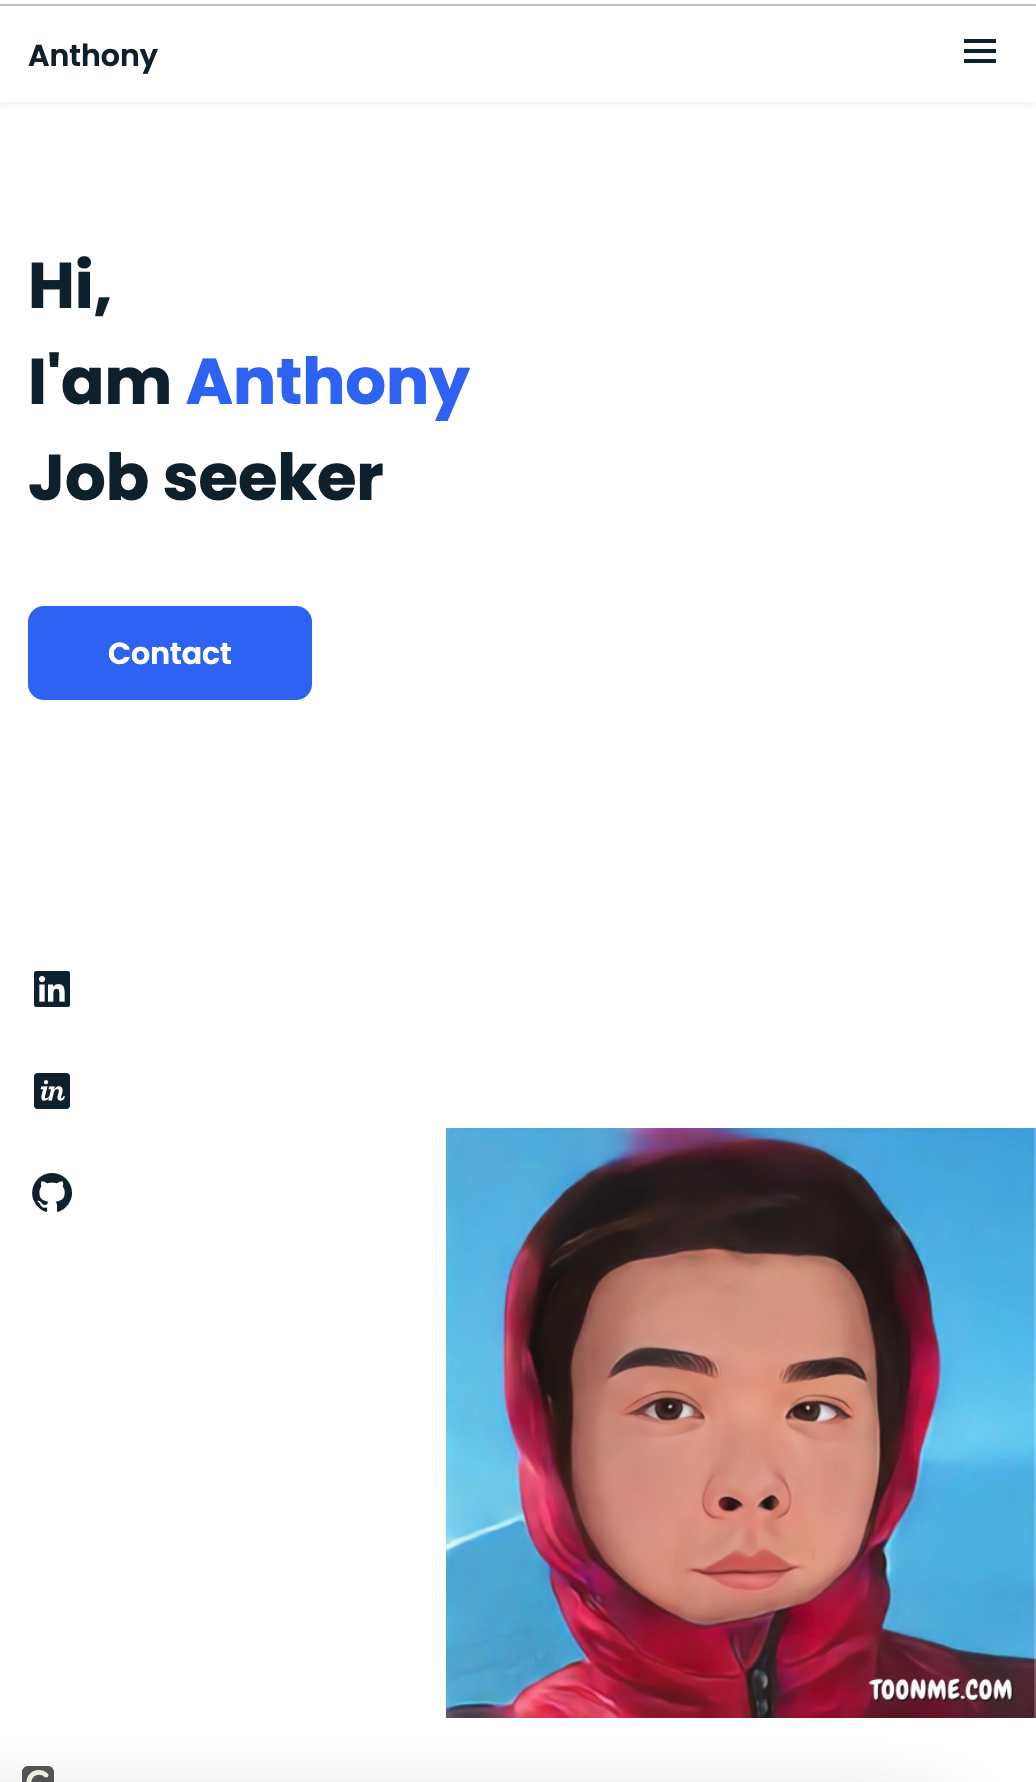
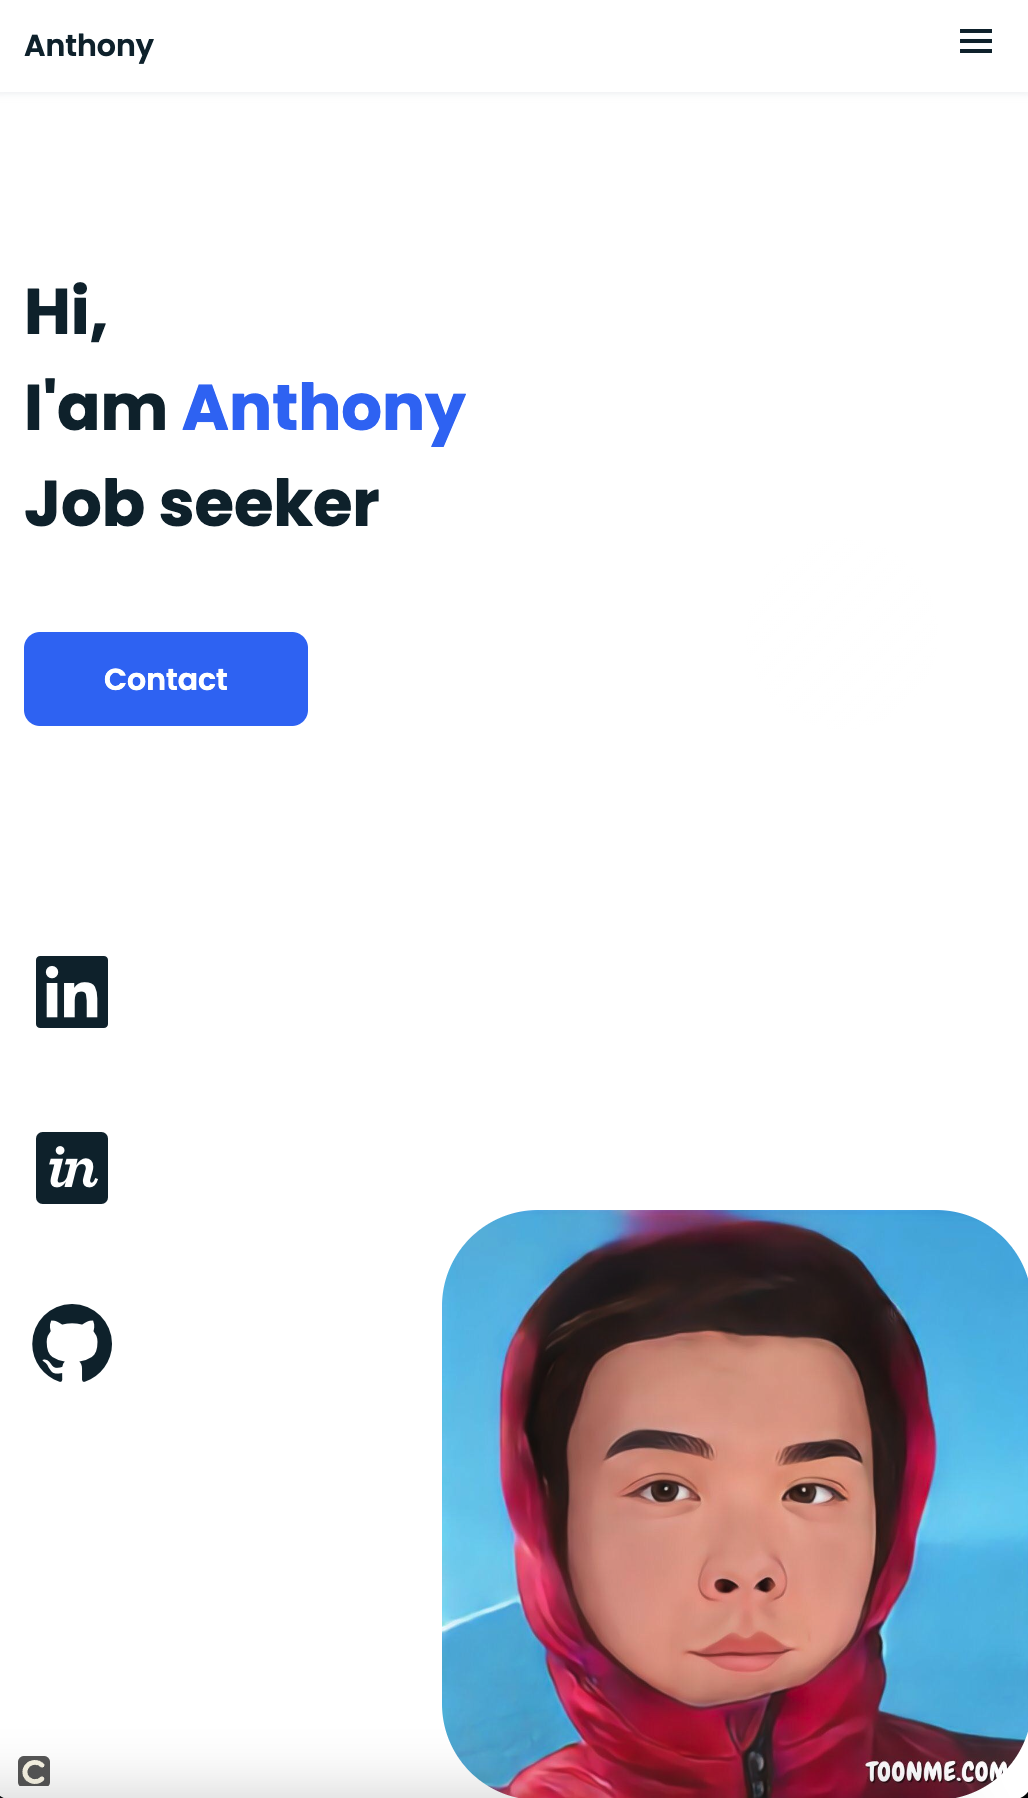
Modify the picture border-radis Modify the two screenShots

diff --git a/index.html b/index.html
@@ -46,14 +46,17 @@
                 </div>
 
                 <div class="home__social">
-                    <a href="https:www.linkedin.com/in/anthony-kong-83a2751a0" class="home__social-icon"><i class='bx bxl-linkedin-square'></i></a>
-                    <a href="" class="home__social-icon"><i class='bx bxl-invision' ></i></a>
-                    <a href="" class="home__social-icon"><i class='bx bxl-github' ></i></a>
+                    <a href="https:www.linkedin.com/in/anthony-kong-83a2751a0" target="view_window" class="home__social-icon"><i class='bx bxl-linkedin-square'></i></a>
+                    <a href="https://my.indeed.com/p/anthonyk-u98hl4m" target="view_window" class="home__social-icon"><i class='bx bxl-invision' ></i></a>
+                    <a href="https://www.github.com/KdnGitHub" target="view_window" class="home__social-icon"><i class='bx bxl-github' ></i></a>
                 </div>
 
-                <div class="home__img">    
-                    <img src="assets/img/perfil.jpeg" alt="">
+                <div class="home__img" >
+
+                    <img src="assets/img/perfil.jpeg" alt="" style="border-radius: 3rem; z-index: 2; backdrop-filter: blur(2rem); display: flex">
                 </div>
+                <div class="circle1"></div>
+                <!-- <div class="circle2"></div> -->
             </section>
 
             <!--===== ABOUT =====-->
@@ -62,7 +65,7 @@
 
                 <div class="about__container bd-grid">
                     <div class="about__img">
-                        <img src="assets/img/about.jpeg" alt="">
+                        <img src="assets/img/about.jpeg" alt="" style="border-radius: 50%">
                     </div>
                     
                     <div>
@@ -106,7 +109,7 @@
                                 
                             </div>
                             <div>
-                                <span class="skills__percentage">70%</span>
+                                <span class="skills__percentage">75%</span>
                             </div>
                         </div>
                         <div class="skills__data">
@@ -118,7 +121,7 @@
                                 
                             </div>
                             <div>
-                                <span class="skills__percentage">50%</span>
+                                <span class="skills__percentage">60%</span>
                             </div>
                         </div>
                         <div class="skills__data">
@@ -130,7 +133,7 @@
                                 
                             </div>
                             <div>
-                                <span class="skills__percentage">65%</span>
+                                <span class="skills__percentage">70%</span>
                             </div>
                         </div>
                         <div class="skills__data">
@@ -142,13 +145,13 @@
 
                             </div>
                             <div>
-                                <span class="skills__percentage">55%</span>
+                                <span class="skills__percentage">65%</span>
                             </div>
                         </div>
                     </div>
                     
                     <div>              
-                        <img src="assets/img/work6.jpg" alt="" class="skills__img" style="height: 670px" >
+                        <img src="assets/img/work6.jpg" alt="" class="skills__img" style="height: 670px; border-radius: 2rem" >
                     </div>
                 </div>
             </section>
@@ -170,11 +173,11 @@
                                 </h2>
                             <hr>
                                 <h2>
-                                09.2018 - 06.2020
+                                Sep.2018 - Jun.2020
                                 </h2>
-                            <h2>
+                            <h3>
                                 Quebec, CA
-                            </h2>
+                            </h3>
                         </span>
                             <img src="assets/img/work1.jpg" alt="" style="opacity: 0.1">
                         </a>
@@ -191,20 +194,20 @@
                                 </h2>
                             <hr>
                                 <h2>
-                                09.2013 - 06.2017
+                                Sep.2013 - Jun.2017
                                 </h2>
-                            <h2>
+                            <h3>
                                 Hubei, CHN
-                            </h2>
+                            </h3>
                         </span>
                             <img src="assets/img/work2.jpg" alt="" style="opacity: 0.1">
                         </a>
                     </div>
                     <div class="work__img">
-                        <a href="https://kdngithub.github.io/FrontEnd/">
+                        <a href="https://kdngithub.github.io/FrontEnd/" target="view_window">
                             <span class="words">
                             <h1>
-                                <b>Real-time monitoring of epidemic data</b>
+                                <b>Real-time Monitoring of epidemic data</b>
                             </h1>
                             <hr>
                                 <h2>
@@ -212,11 +215,15 @@
                                 </h2>
                             <hr>
                                 <h2>
-                               05.2021 - present
+                                    May.2021 - present. Toronto
                                 </h2>
-                            <h2>
-                                Toronto, ON
-                            </h2>
+                                <br>
+                                <h2>
+                                    Pushed on GitHub. Click Me to Visit!
+                                </h2>
+<!--                            <h3>-->
+<!--                                Toronto, ON-->
+<!--                            </h3>-->
                             </span>
                             <img src="assets/img/work3.jpg" alt="" style="opacity: 0.1">
                         </a>
@@ -233,11 +240,11 @@
                                 </h2>
                             <hr>
                                 <h2>
-                                    0.2020 - 11.2020
+                                    Sep.2020 - Nov.2020. Toronto
                                 </h2>
-                            <h2>
+                            <!-- <h3>
                                 Toronto, ON
-                            </h2>
+                            </h3> -->
                             </span>
                             <img src="assets/img/work4.jpg" alt="" style="opacity: 0.1">
                         </a>

diff --git a/assets/css/styles.css b/assets/css/styles.css
@@ -212,7 +212,7 @@ img{
 .home__social-icon{
   width: max-content;
   margin-bottom: var(--mb-2);
-  font-size: 1.5rem;
+  font-size: 3rem;
   color: var(--second-color);
 }
 .home__social-icon:hover{
@@ -223,6 +223,26 @@ img{
   right: 0;
   bottom: 0;
   width: 295px;
+}
+
+.circle1,
+.circle2  {
+  background: white;
+  background: linear-gradient(to right bottom,rgba(255, 255, 255, 0.9),rgba(255, 255, 255, 0.1) );
+  height: 6rem;
+  width: 6rem;
+  position: absolute;
+  border-radius: 50%;
+  display: block;
+}
+
+.circle1 {
+  top: 30%;
+  right: 9%;
+}
+.circle2 {
+  bottom: 12%;
+  left: 64%;
 }
 
 /*BUTTONS*/
@@ -248,6 +268,7 @@ img{
 }
 .about__img{
   justify-self: center;
+  border-radius: 50%;
 }
 .about__img img{
   width: 200px;
@@ -298,16 +319,16 @@ img{
   width: 80%;
 }
 .skills__css{
-  width: 70%;
+  width: 75%;
 }
 .skills__js{
-  width: 50%;
+  width: 60%;
 }
 .skills__java{
-  width: 65%;
+  width: 70%;
 }
 .skills__python{
-  width: 55%;
+  width: 65%;
 }
 .skills__img{
   border-radius: .5rem;
@@ -355,15 +376,15 @@ translateY(-50%)
 }
 
 h1{
-  font-size: 1.5rem;
+  font-size: 1.0rem;
 }
 
 h2{
-  font-size: 1rem;
+  font-size: 0.825rem;
 }
 
 h3{
-  font-size: 1rem;
+  font-size: 0.7rem;
 }
 
 

diff --git a/assets/js/main.js b/assets/js/main.js
@@ -36,7 +36,9 @@ const sr = ScrollReveal({
 /*SCROLL HOME*/
 sr.reveal('.home__title',{}); 
 sr.reveal('.button',{delay: 200}); 
-sr.reveal('.home__img',{delay: 400}); 
+sr.reveal('.home__img',{delay: 400});
+sr.reveal('.circle1',{delay: 400});
+sr.reveal('.circle2',{delay: 400});
 sr.reveal('.home__social-icon',{ interval: 200}); 
 
 /*SCROLL ABOUT*/
